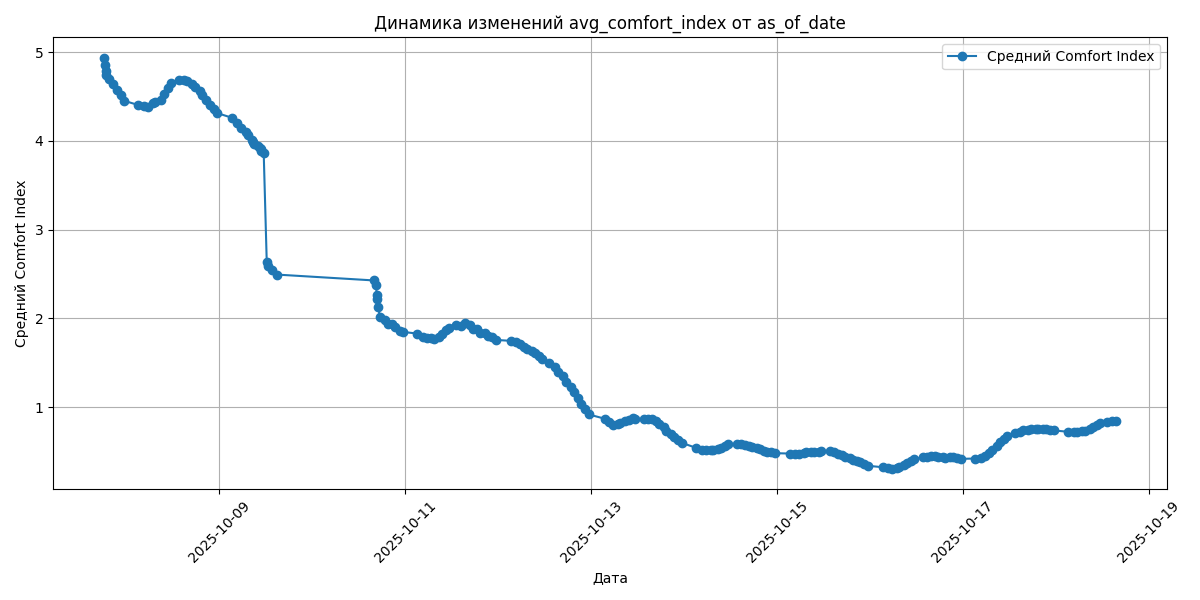
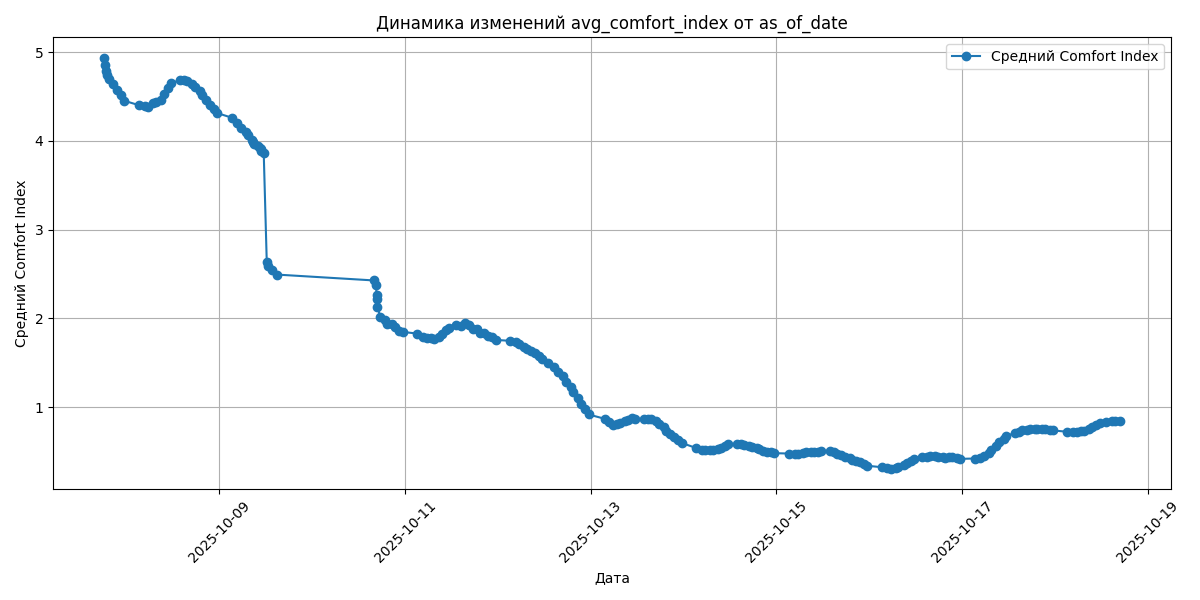
Automated update: weather data, models, and reports

diff --git a/README.md b/README.md
@@ -30,20 +30,20 @@
 #### Рейтинг туризма по городам
 | city_name       |   avg_comfort_index | recommended_activity   | tourist_season_match   | tourism_season   | tour_recommendation       | as_of_date          |
 |:----------------|--------------------:|:-----------------------|:-----------------------|:-----------------|:--------------------------|:--------------------|
-| Москва          |               -1.41 | домашний отдых         | да                     | Круглогодично    | домашний отдых в сезон    | 2025-10-18 15:34:00 |
-| Санкт-Петербург |               -0.29 | домашний отдых         | нет                    | Май-Сентябрь     | домашний отдых вне сезона | 2025-10-18 15:34:00 |
-| Новосибирск     |                0.3  | домашний отдых         | нет                    | Июнь-Август      | домашний отдых вне сезона | 2025-10-18 15:34:00 |
-| Казань          |                1.8  | домашний отдых         | нет                    | Май-Сентябрь     | домашний отдых вне сезона | 2025-10-18 15:34:00 |
-| Сочи            |                3.82 | домашний отдых         | да                     | Май-Октябрь      | домашний отдых в сезон    | 2025-10-18 15:34:00 |
+| Москва          |               -1.41 | домашний отдых         | да                     | Круглогодично    | домашний отдых в сезон    | 2025-10-18 16:45:00 |
+| Санкт-Петербург |               -0.26 | домашний отдых         | нет                    | Май-Сентябрь     | домашний отдых вне сезона | 2025-10-18 16:45:00 |
+| Новосибирск     |                0.32 | домашний отдых         | нет                    | Июнь-Август      | домашний отдых вне сезона | 2025-10-18 16:45:00 |
+| Казань          |                1.78 | домашний отдых         | нет                    | Май-Сентябрь     | домашний отдых вне сезона | 2025-10-18 16:45:00 |
+| Сочи            |                3.81 | домашний отдых         | да                     | Май-Октябрь      | домашний отдых в сезон    | 2025-10-18 16:45:00 |
 
 #### Сводка по федеральным округам
 | federal_district   |   avg_temperature |   comfortable_cities_count | general_recommendation   | as_of_date          |
 |:-------------------|------------------:|---------------------------:|:-------------------------|:--------------------|
-| Приволжский        |              8.21 |                          0 | Лучше остаться дома      | 2025-10-18 15:34:00 |
-| Центральный        |              7.94 |                          0 | Лучше остаться дома      | 2025-10-18 15:34:00 |
-| Сибирский          |             -3.34 |                          0 | Лучше остаться дома      | 2025-10-18 15:34:00 |
-| Северо-Западный    |              7.52 |                          0 | Лучше остаться дома      | 2025-10-18 15:34:00 |
-| Южный              |             15.64 |                          0 | Лучше остаться дома      | 2025-10-18 15:34:00 |
+| Приволжский        |              8.21 |                          0 | Лучше остаться дома      | 2025-10-18 16:45:00 |
+| Центральный        |              7.93 |                          0 | Лучше остаться дома      | 2025-10-18 16:45:00 |
+| Сибирский          |             -3.34 |                          0 | Лучше остаться дома      | 2025-10-18 16:45:00 |
+| Северо-Западный    |              7.5  |                          0 | Лучше остаться дома      | 2025-10-18 16:45:00 |
+| Южный              |             15.63 |                          0 | Лучше остаться дома      | 2025-10-18 16:45:00 |
 
 #### Рекомендации для путешествий
 Рекомендации на 2025-10-18: top_3_cities: nan, stay_home_cities: Казань, Москва, Новосибирск, Санкт-Петербург, Сочи, additional_notes: Казань: Взять теплую одежду; Плохая видимость из-за тумана/облачности; Москва: Взять теплую одежду; Плохая видимость из-за тумана/облачности; Новосибирск: Взять теплую одежду; Очень холодно, риск обморожения; Санкт-Петербург: Взять теплую одежду
@@ -51,11 +51,11 @@
 #### Прогнозы температуры
 | city            | forecast_date   |   predicted_temp_day |   predicted_temp_night | model_type       | as_of_date          |
 |:----------------|:----------------|---------------------:|-----------------------:|:-----------------|:--------------------|
-| Казань          | 2025-10-19      |                    5 |                      3 | LinearRegression | 2025-10-18 15:35:04 |
-| Москва          | 2025-10-19      |                    4 |                      3 | LinearRegression | 2025-10-18 15:35:04 |
-| Новосибирск     | 2025-10-19      |                   -3 |                     -3 | LinearRegression | 2025-10-18 15:35:04 |
-| Санкт-Петербург | 2025-10-19      |                    5 |                      3 | LinearRegression | 2025-10-18 15:35:04 |
-| Сочи            | 2025-10-19      |                   17 |                     14 | LinearRegression | 2025-10-18 15:35:04 |
+| Казань          | 2025-10-19      |                    5 |                      3 | LinearRegression | 2025-10-18 16:45:38 |
+| Москва          | 2025-10-19      |                    3 |                      3 | LinearRegression | 2025-10-18 16:45:38 |
+| Новосибирск     | 2025-10-19      |                   -3 |                     -3 | LinearRegression | 2025-10-18 16:45:38 |
+| Санкт-Петербург | 2025-10-19      |                    5 |                      3 | LinearRegression | 2025-10-18 16:45:38 |
+| Сочи            | 2025-10-19      |                   16 |                     14 | LinearRegression | 2025-10-18 16:45:38 |
 
 
 <!-- WEATHER DATA END -->
